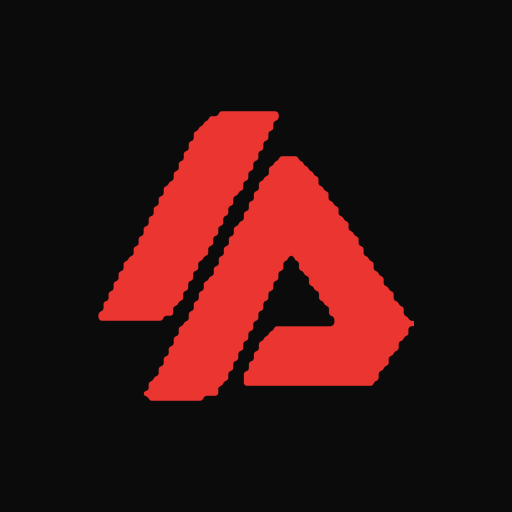
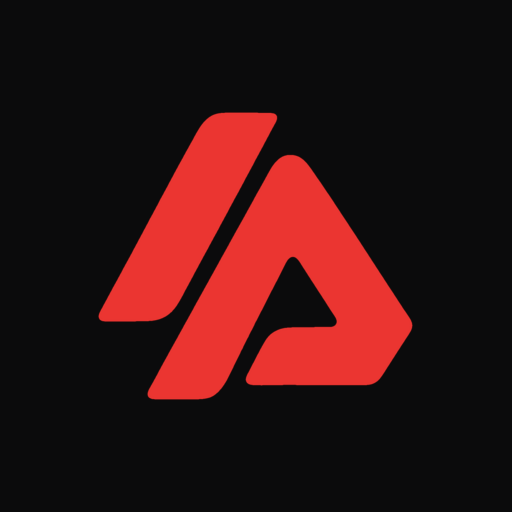
Favoritos no aparelho, testes automatizados e CI
Coração nos cartões e na página do veículo guarda os veículos salvos
no localStorage; filtro "Salvos" no estoque (com estado na URL) e
evento de analytics. tests/validar-dados.mjs confere a consistência
dos JSON, das páginas geradas, do sitemap, das categorias e das
miniaturas; tests/smoke.mjs abre todas as páginas no Chromium em
celular e desktop e exercita filtros, favorito, tela cheia e simulação.
Workflow de CI roda os dois a cada push. Ícones PWA com bordas suaves.

Claude-Session: https://claude.ai/code/session_016yHgGo7v3eqbo9kkNUEGEg

diff --git a/assets/js/estoque.js b/assets/js/estoque.js
@@ -13,7 +13,7 @@
   function readState() {
     const p = new URLSearchParams(location.search);
     state = {
-      q: p.get("q") || "", tipo: p.get("tipo") || "", categoria: p.getAll("categoria"), marca: p.get("marca") || "", modelo: p.get("modelo") || "",
+      q: p.get("q") || "", salvos: p.get("salvos") === "1", tipo: p.get("tipo") || "", categoria: p.getAll("categoria"), marca: p.get("marca") || "", modelo: p.get("modelo") || "",
       precoMin: p.get("precoMin") || "", precoMax: p.get("precoMax") || "", anoMin: p.get("anoMin") || "", kmMax: p.get("kmMax") || "",
       cambio: p.getAll("cambio"), combustivel: p.getAll("combustivel"), tag: p.getAll("tag"), ordem: p.get("ordem") || "marca"
     };
@@ -21,6 +21,7 @@
   function writeState() {
     const p = new URLSearchParams();
     ["q", "tipo", "marca", "modelo", "precoMin", "precoMax", "anoMin", "kmMax"].forEach((k) => { if (state[k]) p.set(k, state[k]); });
+    if (state.salvos) p.set("salvos", "1");
     ["categoria", "cambio", "combustivel", "tag"].forEach((k) => state[k].forEach((v) => p.append(k, v)));
     if (state.ordem && state.ordem !== "marca") p.set("ordem", state.ordem);
     const qs = p.toString();
@@ -29,7 +30,9 @@
 
   function apply() {
     const q = norm(state.q).split(/\s+/).filter(Boolean);
+    const favs = A.Fav.get();
     filtered = ALL.filter((v) => {
+      if (state.salvos && !favs.includes(v.id)) return false;
       if (state.tipo && v.tipo !== state.tipo) return false;
       if (state.categoria.length && !state.categoria.includes(v.categoria)) return false;
       if (state.marca && v.marca !== state.marca) return false;
@@ -56,12 +59,16 @@
     renderMore();
     const n = filtered.length;
     $("#results-count").innerHTML = n ? "<b>" + n + "</b> " + (n === 1 ? "veículo encontrado" : "veículos encontrados") : "Nenhum veículo encontrado";
+    renderSavedChip();
     renderActive();
     writeState();
   }
   function renderMore() {
     const slice = filtered.slice(shown, shown + PAGE);
-    if (!filtered.length) {
+    if (!filtered.length && state.salvos && !A.Fav.get().length) {
+      $("#results").innerHTML = '<div class="empty" style="grid-column:1/-1">' + icon("heart") + "<b>Você ainda não salvou nenhum veículo.</b><span>Toque no coração de um cartão para guardar o veículo neste aparelho.</span><button class=\"btn btn-outline\" type=\"button\" id=\"empty-clear\">Ver todo o estoque</button></div>";
+      $("#empty-clear").addEventListener("click", clearAll);
+    } else if (!filtered.length) {
       $("#results").innerHTML = '<div class="empty" style="grid-column:1/-1">' + icon("search") + "<b>Nenhum veículo com esses filtros.</b><span>Tente remover algum filtro ou fale com a gente: talvez tenhamos algo chegando.</span><button class=\"btn btn-outline\" type=\"button\" id=\"empty-clear\">Limpar filtros</button><a class=\"btn btn-wa\" href=\"" + A.waLink("Olá! Procuro um veículo específico e não encontrei no site. Podem me ajudar?") + '" target="_blank" rel="noopener">' + icon("whatsapp") + " Falar no WhatsApp</a></div>";
       $("#empty-clear").addEventListener("click", clearAll);
     } else {
@@ -72,10 +79,11 @@
     const rest = filtered.length - shown;
     if (rest > 0) $("#btn-more").textContent = "Carregar mais (" + rest + (rest === 1 ? " restante)" : " restantes)");
   }
-  function clearAll() { state = { q: "", tipo: "", categoria: [], marca: "", modelo: "", precoMin: "", precoMax: "", anoMin: "", kmMax: "", cambio: [], combustivel: [], tag: [], ordem: state.ordem }; syncControls(); apply(); }
+  function clearAll() { state = { q: "", salvos: false, tipo: "", categoria: [], marca: "", modelo: "", precoMin: "", precoMax: "", anoMin: "", kmMax: "", cambio: [], combustivel: [], tag: [], ordem: state.ordem }; syncControls(); apply(); }
 
   function activeList() {
     const out = [];
+    if (state.salvos) out.push(["salvos", "", "Salvos"]);
     if (state.q) out.push(["q", "", "“" + state.q + "”"]);
     if (state.tipo) out.push(["tipo", "", state.tipo === "moto" ? "Motos" : "Carros"]);
     state.categoria.forEach((v) => out.push(["categoria", v, CATS[v] || v]));
@@ -96,7 +104,7 @@
     $("#active-filters").innerHTML = act.map((a) => '<button class="chip on" type="button" data-k="' + esc(a[0]) + '" data-v="' + esc(a[1]) + '" aria-label="Remover filtro: ' + esc(a[2]) + '">' + esc(a[2]) + icon("close") + "</button>").join("") + (act.length > 1 ? '<button class="chip" type="button" id="chip-clear">Limpar tudo</button>' : "");
     $$("#active-filters .chip[data-k]").forEach((b) => b.addEventListener("click", () => {
       const k = b.dataset.k, v = b.dataset.v;
-      if (Array.isArray(state[k])) state[k] = state[k].filter((x) => x !== v); else state[k] = "";
+      if (Array.isArray(state[k])) state[k] = state[k].filter((x) => x !== v); else if (k === "salvos") state.salvos = false; else state[k] = "";
       syncControls(); apply();
     }));
     const c = $("#chip-clear"); if (c) c.addEventListener("click", clearAll);
@@ -158,6 +166,12 @@
     $("#f-apply").textContent = n ? "Ver " + n + (n === 1 ? " veículo" : " veículos") : "Nenhum veículo";
   }
 
+  function renderSavedChip() {
+    const total = A.Fav.get().length, el = $("#saved-chip"); if (!el) return;
+    el.hidden = !total && !state.salvos;
+    el.setAttribute("aria-pressed", state.salvos ? "true" : "false");
+    el.innerHTML = icon("heart") + " Salvos" + (total ? '<span class="n">' + total + "</span>" : "");
+  }
   let filtersSheet, saved = null, applied = false;
   document.addEventListener("DOMContentLoaded", async () => {
     readState();
@@ -168,6 +182,8 @@
     $("#q-clear").addEventListener("click", () => { $("#q").value = ""; state.q = ""; $("#q-clear").hidden = true; apply(); $("#q").focus(); });
     $("#ordem").addEventListener("change", () => { state.ordem = $("#ordem").value; ordemLabel(); apply(); });
     $("#btn-more").addEventListener("click", renderMore);
+    $("#saved-chip").addEventListener("click", () => { state.salvos = !state.salvos; apply(); });
+    document.addEventListener("fav:change", () => { if (state.salvos) apply(); else renderSavedChip(); });
     try {
       const data = await A.loadIndex();
       ALL = data.veiculos; CATS = data.categorias || {};

diff --git a/assets/js/app.js b/assets/js/app.js
@@ -45,7 +45,8 @@
     link: '<path d="M10 14a4 4 0 0 0 5.7 0l3-3a4 4 0 0 0-5.7-5.7l-1 1"/><path d="M14 10a4 4 0 0 0-5.7 0l-3 3a4 4 0 0 0 5.7 5.7l1-1"/>',
     money: '<rect x="3" y="6" width="18" height="12" rx="2"/><circle cx="12" cy="12" r="2.5"/><path d="M7 12h0M17 12h0"/>',
     users: '<circle cx="9" cy="8" r="3.5"/><path d="M2.5 20a6.5 6.5 0 0 1 13 0"/><path d="M16 4.5a3.5 3.5 0 0 1 0 7M21.5 20a6.5 6.5 0 0 0-4.5-6.2"/>',
-    key: '<circle cx="8" cy="15" r="4"/><path d="m11 12 9-9m-3 3 2 2m-5 1 2 2"/>'
+    key: '<circle cx="8" cy="15" r="4"/><path d="m11 12 9-9m-3 3 2 2m-5 1 2 2"/>',
+    heart: '<path d="M12 20.5s-7.5-4.6-9.3-9.1C1.5 8.3 3.6 4.9 7 4.9c2 0 3.4 1.1 5 2.8 1.6-1.7 3-2.8 5-2.8 3.4 0 5.5 3.4 4.3 6.5-1.8 4.5-9.3 9.1-9.3 9.1z"/>'
   };
   const icon = (name, cls) => '<svg class="ic ' + (cls || '') + '" viewBox="0 0 24 24" aria-hidden="true">' + (ICONS[name] || '') + '</svg>';
 
@@ -110,7 +111,7 @@
       '<a class="card-link" href="' + vehUrl(v) + '" aria-label="' + esc(vehName(v)) + '"></a>' +
       '<div class="v-img"><img src="' + thumbUrl(v) + '" data-fallback="' + esc(v.capa) + '" alt="' + esc(vehName(v)) + '" loading="' + (opts.eager ? "eager" : "lazy") + '" decoding="async" width="640" height="480">' +
       '<div class="v-badges">' + tags.map((t) => '<span class="badge ' + (TAGS[t] || "") + '">' + esc(t) + "</span>").join("") + "</div>" +
-      (v.nFotos ? '<span class="v-photos" aria-label="' + v.nFotos + ' fotos">' + icon("image") + v.nFotos + "</span>" : "") + "</div>" +
+      (v.nFotos ? '<span class="v-photos" aria-label="' + v.nFotos + ' fotos">' + icon("image") + v.nFotos + "</span>" : "") + Fav.button(v.id, "fav-card") + "</div>" +
       '<div class="v-body">' +
       '<div class="v-brand">' + esc(v.marca) + "</div>" +
       '<div class="v-title">' + esc(v.modelo) + "</div>" +
@@ -245,6 +246,24 @@
     return api;
   }
 
+  /* ---------- Favoritos (só no aparelho: localStorage) ---------- */
+  const Fav = {
+    key: "favoritos",
+    get() { try { const a = JSON.parse(localStorage.getItem(this.key) || "[]"); return Array.isArray(a) ? a.map(Number).filter(Boolean) : []; } catch (e) { return []; } },
+    has(id) { return this.get().includes(Number(id)); },
+    toggle(id) {
+      id = Number(id); let list = this.get(); const on = !list.includes(id);
+      list = on ? list.concat(id) : list.filter((x) => x !== id);
+      try { localStorage.setItem(this.key, JSON.stringify(list)); } catch (e) { /* sem storage */ }
+      $$('[data-fav="' + id + '"]').forEach((b) => { b.setAttribute("aria-pressed", on ? "true" : "false"); b.setAttribute("aria-label", on ? "Remover dos salvos" : "Salvar veículo"); });
+      document.dispatchEvent(new CustomEvent("fav:change", { detail: { id, on, total: list.length } }));
+      toast(on ? "Salvo neste aparelho" : "Removido dos salvos");
+      return on;
+    },
+    button(id, cls) { const on = this.has(id); return '<button class="fav ' + (cls || "") + '" type="button" data-fav="' + id + '" aria-pressed="' + (on ? "true" : "false") + '" aria-label="' + (on ? "Remover dos salvos" : "Salvar veículo") + '">' + icon("heart") + "</button>"; }
+  };
+  document.addEventListener("click", (e) => { const b = e.target && e.target.closest ? e.target.closest("[data-fav]") : null; if (!b) return; e.preventDefault(); e.stopPropagation(); Fav.toggle(b.dataset.fav); });
+
   /* ---------- Avaliações do Google (data/avaliacoes.json, preenchido à mão) ---------- */
   const safeHttp = (u) => (/^https:\/\//i.test(String(u || "")) ? String(u) : "");
   const loadReviews = () => loadJSON("data/avaliacoes.json").then((d) => (d && typeof d.nota === "number" && d.nota > 0 && d.nota <= 5 ? Object.assign(d, { linkGoogle: safeHttp(d.linkGoogle) }) : null)).catch(() => null);
@@ -299,7 +318,7 @@
     });
   }
 
-  window.App = { $, $$, icon, fmtBRL, fmtNum, fmtKm, esc, titleCase, vehName, vehShort, vehUrl, thumbUrl, brandKey, brandLogo, absUrl, waLink, waVehicleMsg, telLink, openStatus, loadIndex, loadAll, loadReviews, stars, fmtNota, googleBadge, vehicleCard, sheet, toast, bindWaForms, maskPhone, socialRow };
+  window.App = { Fav, $, $$, icon, fmtBRL, fmtNum, fmtKm, esc, titleCase, vehName, vehShort, vehUrl, thumbUrl, brandKey, brandLogo, absUrl, waLink, waVehicleMsg, telLink, openStatus, loadIndex, loadAll, loadReviews, stars, fmtNota, googleBadge, vehicleCard, sheet, toast, bindWaForms, maskPhone, socialRow };
 
   // imagem com data-fallback: se a miniatura local não existir, usa a foto original
   document.addEventListener("error", (e) => { const t = e.target; if (t && t.tagName === "IMG" && t.dataset.fallback && t.src !== t.dataset.fallback) { t.src = t.dataset.fallback; delete t.dataset.fallback; } }, true);

diff --git a/assets/css/style.css b/assets/css/style.css
@@ -176,6 +176,15 @@ body.no-bottom-nav .bottom-nav { display: none; }
 .badge.red { background: var(--red-700); }
 .badge.soft { background: var(--red-50); color: var(--red-700); }
 .badge.gray { background: #ededf1; color: var(--ink-2); }
+.fav { display: inline-flex; align-items: center; justify-content: center; width: 44px; height: 44px; border-radius: 50%; border: 0; background: rgba(255,255,255,.92); color: var(--ink); box-shadow: 0 2px 8px rgba(0,0,0,.18); -webkit-tap-highlight-color: transparent; }
+.fav .ic { width: 22px; height: 22px; transition: transform .15s ease; }
+.fav[aria-pressed="true"] { color: var(--red-700); }
+.fav[aria-pressed="true"] .ic { fill: currentColor; transform: scale(1.1); }
+.fav-card { position: absolute; right: 10px; top: 10px; z-index: 2; }
+.price-actions { display: flex; gap: 8px; }
+.price-actions .fav.btn { background: transparent; box-shadow: none; }
+.chip .ic-fill, .chip[aria-pressed="true"] .ic { fill: currentColor; }
+#saved-chip[aria-pressed="true"] { color: #fff; }
 .v-photos { position: absolute; right: 10px; bottom: 10px; display: inline-flex; align-items: center; gap: 4px; padding: 4px 8px; border-radius: 999px; background: rgba(0,0,0,.6); color: #fff; font-size: .7rem; font-weight: 700; }
 .v-photos .ic { width: 14px; height: 14px; }
 .v-body { padding: 12px 14px 14px; display: flex; flex-direction: column; gap: 6px; flex: 1; }
@@ -329,7 +338,9 @@ body.page-estoque .site-header { position: static; }
 .tb-btn select { position: absolute; inset: 0; opacity: 0; width: 100%; height: 100%; font-size: 16px; cursor: pointer; }
 .tb-btn:focus-within { outline: 3px solid var(--red-700); outline-offset: 2px; }
 .tb-btn .lbl { display: none; }
-.results-head { display: flex; align-items: center; justify-content: space-between; gap: 10px; margin: 6px 0 12px; font-size: .9rem; color: var(--muted); }
+.results-head { display: flex; align-items: center; justify-content: space-between; gap: 10px; flex-wrap: wrap; margin: 6px 0 12px; font-size: .9rem; color: var(--muted); }
+.results-head #saved-chip { padding: 6px 12px; font-size: .8rem; }
+.results-head #saved-chip .ic { width: 16px; height: 16px; }
 .results-head b { color: var(--ink); }
 .active-filters { display: flex; gap: 6px; overflow-x: auto; padding-bottom: 8px; margin: 0 -16px; padding-left: 16px; padding-right: 16px; scrollbar-width: none; }
 .active-filters::-webkit-scrollbar { display: none; }

diff --git a/assets/js/veiculo.js b/assets/js/veiculo.js
@@ -39,7 +39,7 @@
       '<p class="small muted" style="margin-top:14px">Anúncio nº ' + v.id + ". " + esc(S.avisoLegal) + "</p>" +
       "</div>" +
       '<aside class="v-side">' +
-      '<div class="price-box"><div><div class="p"><small>R$</small>' + A.fmtBRL(v.preco).replace(/^R\$\s?/, "") + '</div><div class="lbl">Valor do veículo</div></div><button class="btn btn-icon btn-outline" type="button" id="btn-share" aria-label="Compartilhar">' + icon("share") + "</button></div>" +
+      '<div class="price-box"><div><div class="p"><small>R$</small>' + A.fmtBRL(v.preco).replace(/^R\$\s?/, "") + '</div><div class="lbl">Valor do veículo</div></div><div class="price-actions">' + A.Fav.button(v.id, "btn btn-icon btn-outline") + '<button class="btn btn-icon btn-outline" type="button" id="btn-share" aria-label="Compartilhar">' + icon("share") + "</button></div></div>" +
       '<div class="cta-row"><a class="btn btn-wa btn-lg" href="' + wa + '" target="_blank" rel="noopener">' + icon("whatsapp") + ' Tenho interesse</a><a class="btn btn-dark btn-lg" href="' + A.telLink + '">' + icon("phone") + " Ligar agora</a>" +
       '<div class="row2"><button class="btn btn-outline" type="button" id="btn-sim">' + icon("calc") + ' Simular financiamento</button><a class="btn btn-outline" href="venda-seu-veiculo.html">' + icon("tag") + " Vender meu carro</a></div></div>" +
       '<section class="block"><h2>Compra segura</h2><ul class="opt-grid" style="grid-template-columns:1fr">' + S.garantias.filter((g) => !/garantia/i.test(g.titulo)).map((g) => "<li>" + icon("shield") + "<span><b>" + esc(g.titulo) + "</b><br>" + esc(g.texto) + "</span></li>").join("") + "</ul></section>" +

diff --git a/estoque.html b/estoque.html
@@ -52,7 +52,7 @@
   <div class="container">
     <h1 class="sr-only">Estoque de veículos</h1>
     <div class="active-filters" id="active-filters"></div>
-    <div class="results-head"><span id="results-count" aria-live="polite">Carregando…</span><span id="results-updated" class="small"></span></div>
+    <div class="results-head"><span id="results-count" aria-live="polite">Carregando…</span><button class="chip" type="button" id="saved-chip" aria-pressed="false" hidden></button><span id="results-updated" class="small"></span></div>
     <div class="v-grid" id="results"><div class="skeleton sk-card"></div><div class="skeleton sk-card"></div><div class="skeleton sk-card"></div><div class="skeleton sk-card"></div></div>
     <div class="load-more" id="load-more" hidden><button class="btn btn-outline" id="btn-more" type="button">Carregar mais</button></div>
   </div>

diff --git a/assets/js/analytics.js b/assets/js/analytics.js
@@ -58,5 +58,6 @@
     if (f.checkValidity && !f.checkValidity()) return;
     track("envio_formulario", { formulario: f.getAttribute("data-wa-form") }, "Lead");
   }, true);
+  document.addEventListener("fav:change", function (e) { track(e.detail && e.detail.on ? "salvar_veiculo" : "remover_salvo", { veiculo_salvo: e.detail && e.detail.id, total_salvos: e.detail && e.detail.total }); });
   if (vid) track("view_item", { content_ids: [String(vid)], content_type: "product" }, "ViewContent");
 })();

diff --git a/README.md b/README.md
@@ -79,6 +79,15 @@ A home tem a seção "O que dizem nossos clientes" e a página do veículo mostr
 
 Use apenas avaliações reais e o texto como está publicado. Enquanto `nota` for `null` ou a lista estiver vazia, nada aparece.
 
+## Testes
+
+```bash
+npm run test:dados   # consistência de data/*.json, v/*.html, sitemap, categorias e miniaturas
+npm test             # o anterior + teste de fumaça no Chromium (precisa de `npm i --no-save playwright@1.56.1` e `npx playwright install chromium`)
+```
+
+O workflow `.github/workflows/testes.yml` roda os dois a cada push.
+
 ## Rodar localmente
 
 ```bash
